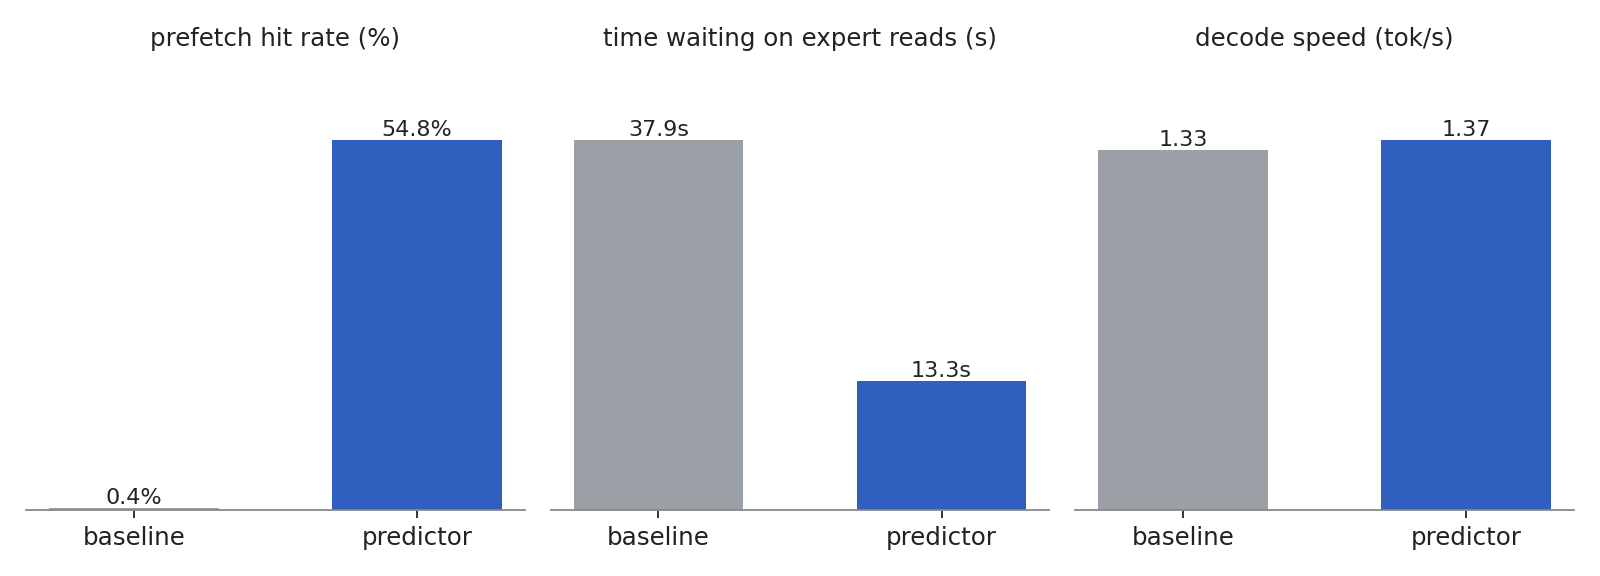
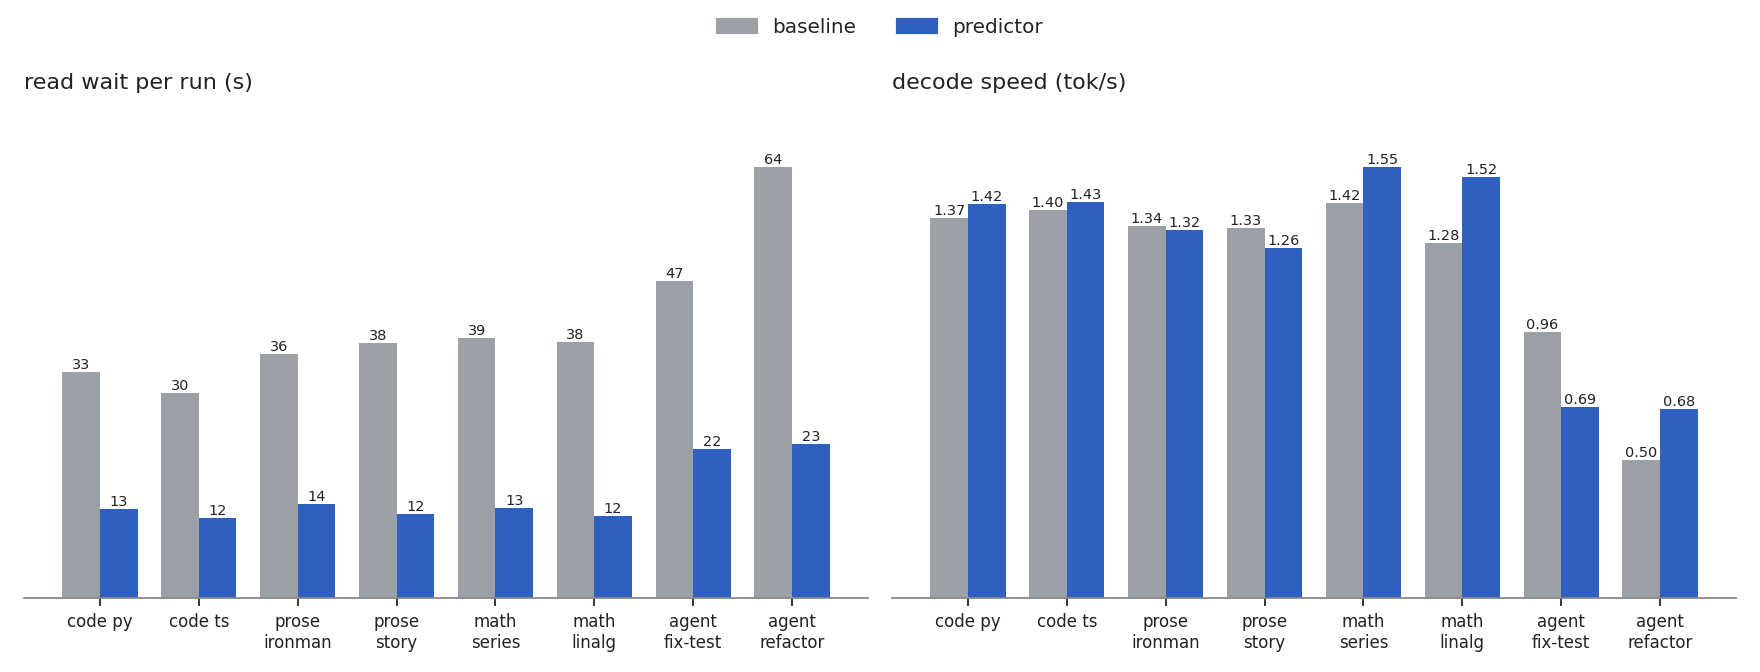
per-prompt results chart, drop tables and diagram from readme

diff --git a/README.md b/README.md
@@ -4,54 +4,36 @@ learned expert prefetching for [qwen3.8-flash-next](https://github.com/DimitriCh
 
 ## the idea
 
-the model has 48 moe layers, and each layer's router picks 10 of 512 experts for every token. the engine only knows which experts a layer needs after that layer's router runs, so the read always blocks.
+the model has 48 moe layers, and each layer's router picks 10 of 512 experts for every token. the engine only learns which experts a layer needs once that layer's router has run, so every expert read waits on the ssd.
 
-```
-layer L ──► router L ──► read experts for L          blocks the layer
-   │
-   └──► predictor ──► read experts for L+1 to L+3    runs while L computes
-```
-
-the hidden state going into layer L already says a lot about which experts the later layers will pick. a small model can read it and start those reads early.
+the hidden state going into layer L already says a lot about which experts the next layers will pick. a small predictor reads it and starts those reads while layer L is still computing.
 
 ## results
 
-![results](images/results.png)
+![per prompt results](images/results.png)
 
-8 held-out prompts, 128 tokens each, medians. m3 max, 36 gb, 8 gib expert cache, fresh process per run. raw runs are in `artifacts/bench/20261006-125327.json`.
+8 prompts the predictor never trained on, 128 tokens each, on an m3 max with 36 gb and an 8 gib expert cache. raw runs are in `artifacts/bench/20261006-125327.json`.
 
-- about 55% of the experts it prefetches get used. the baseline is 0.4%.
-- time blocked on expert reads drops from 37.9 s to 13.3 s per run.
-- decode speed barely changes, 1.33 to 1.37 tok/s. the output matches token for token on all 8 prompts.
+- read wait fell by 53 to 68% on every prompt. the median run went from 37.9 s of waiting to 13.3 s.
+- 45 to 62% of the prefetched experts got used. without the predictor it's about 1% or less.
+- decode went up on 5 prompts and down on 3. the median went from 1.33 to 1.37 tok/s.
+- every prompt produced the same tokens with and without the predictor.
 
-the gap between the second and third bullets is the important part. see below.
+the predictor works, but saving wait time didn't make decoding faster. the biggest drop was agent-fix-test, from 0.96 to 0.69 tok/s. the next section covers why.
 
 ## offline recall
 
-how often a future layer's real experts show up in the predictor's top 10. 8 held-out prompts, 248 decode tokens.
+how often the predictor's top 10 contains the experts a future layer actually routes to, on the 8 held-out prompts.
 
-| predictor | 1 layer ahead | 2 ahead | 3 ahead |
-|---|---:|---:|---:|
-| engine frequency heuristic | 0.222 | 0.224 | 0.226 |
-| target layer's router, untrained | 0.634 | 0.541 | 0.496 |
-| trained rank-64 heads | 0.672 | 0.615 | 0.587 |
+- engine's frequency heuristic: 22% one layer ahead, 23% three layers ahead
+- the target layer's own router, untrained: 63% and 50%
+- trained rank-64 heads: 67% and 59%
 
-the untrained router is already strong, probably because the hidden state changes slowly from layer to layer. training helps more the further ahead it looks.
-
-## ablations
-
-same 6 non-agent prompts, medians.
-
-| config | hit rate | read wait (s) | decode (tok/s) |
-|---|---:|---:|---:|
-| engine heuristic (baseline) | 0.3% | 37.0 | 1.354 |
-| predictor, no pinning, serial reads | 8.1% | 22.0 | 1.063 |
-| predictor, pinning, serial reads | 54.6% | 18.9 | 1.328 |
-| predictor, pinning, parallel reads | 54.5% | 12.8 | 1.422 |
+the untrained router is already strong, probably because the hidden state changes slowly from layer to layer. training matters more the further ahead it looks.
 
 ## what didn't work
 
-pinning is required. without it, the cache gives a freshly prefetched expert the lowest use count and evicts it before the layer that needs it runs. the hit rate falls to 8%, and decode ends up slower than with no prefetch at all.
+pinning is required. without it, the cache's adaptive policy evicts a freshly prefetched expert before the layer that needs it runs. the hit rate falls from 55% to 8%, and decode drops to 1.06 tok/s, below the 1.35 baseline on the six non-agent prompts.
 
 less waiting didn't mean faster decode. a 128-token run waits about 24 s less, but decode only gains about 3%. my guess is the freed time goes to turning rows into mlx arrays on the main thread. wrong guesses also add reads: bytes read went up on 7 of 8 prompts, and prose-story went from 83 to 111 GiB.
 
@@ -61,14 +43,12 @@ long prompts got slower. on agent-fix-test, an 850-token prompt, time to first t
 
 ## how it's built
 
-| script | what it does |
-|---|---|
-| `scripts/record_traces.py` | runs the model over 30 prompts and saves the routed experts for every token |
-| `scripts/train_predictors.py` | trains one head per layer and lookahead, starting from that layer's router |
-| `scripts/eval_predictors.py` | recall@k on the held-out prompts |
-| `scripts/simulate.py` | replays traces through a copy of the cache without loading the model |
-| `scripts/bench.py` | baseline vs predictor in fresh processes, fails if the tokens differ |
-| `moe_prefetch.runtime` | the hook that submits predictions as async reads |
+- `scripts/record_traces.py`: runs the model over 30 prompts and saves the routed experts for every token
+- `scripts/train_predictors.py`: one head per layer and lookahead, starting from that layer's router
+- `scripts/eval_predictors.py`: recall@k on the held-out prompts
+- `scripts/simulate.py`: replays traces through a copy of the cache without loading the model
+- `scripts/bench.py`: baseline vs predictor in fresh processes, fails if the tokens differ
+- `moe_prefetch.runtime`: the hook that submits predictions as async reads
 
 ## run it
 
